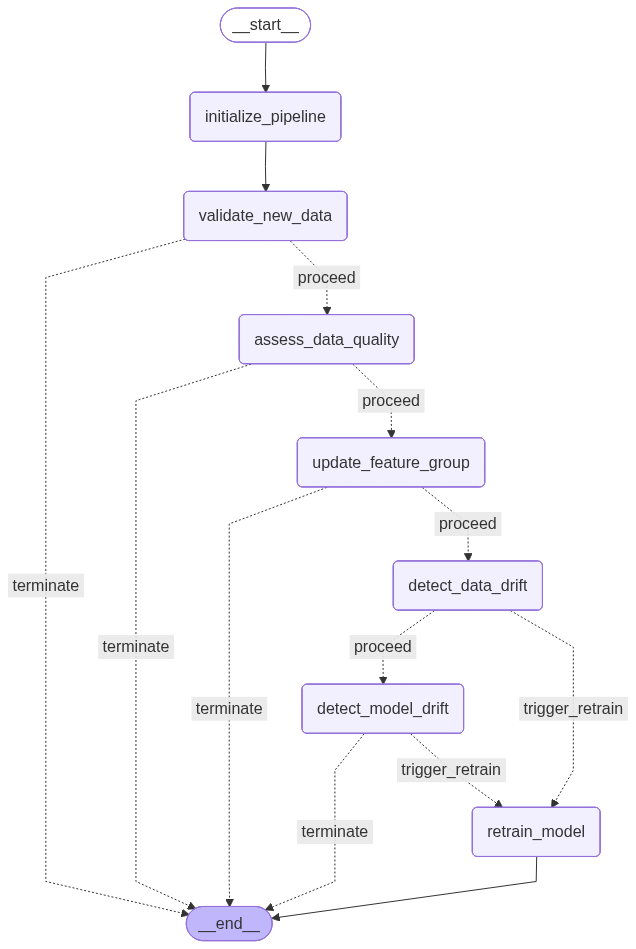
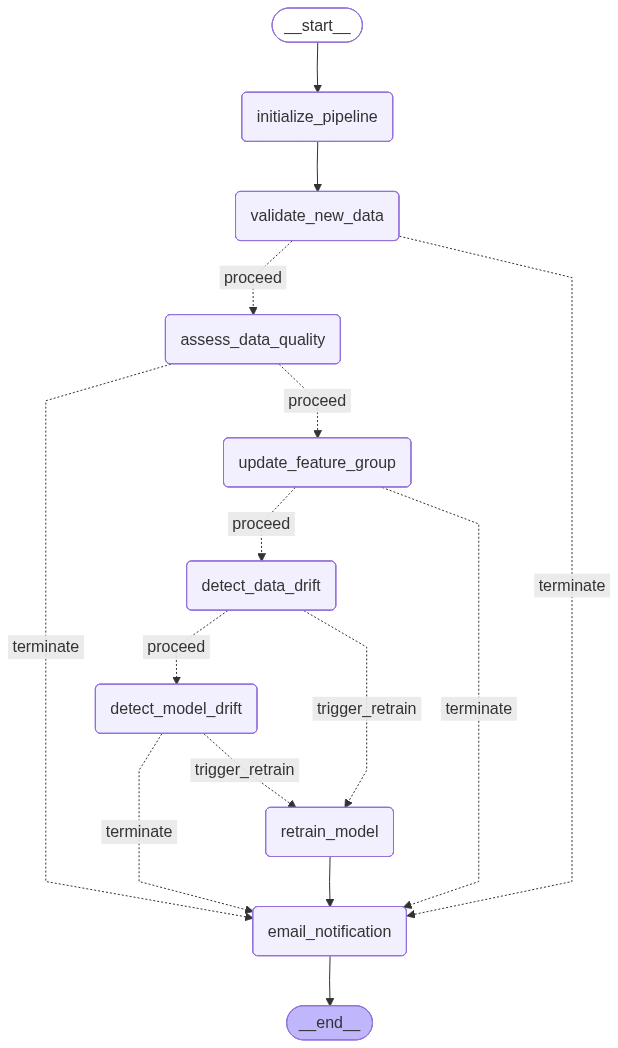
final of final

diff --git a/workflow/build_graph.py b/workflow/build_graph.py
@@ -3,6 +3,7 @@ from workflow.nodes.check_data_quality import check_data_quality, data_quality_r
 from workflow.nodes.update_fs import update_feature_store, is_the_first_day_of_week
 from workflow.nodes.check_data_drift import check_data_drift, data_drift_router
 from workflow.nodes.check_model_drift import check_model_drift, model_drift_router
+from workflow.nodes.send_email import send_email
 from workflow.nodes.retraining import train
 from workflow.nodes.init import init_node
 from langgraph.graph import StateGraph, START, END
@@ -19,24 +20,24 @@ def create_graph():
     builder.add_node('detect_data_drift', check_data_drift)
     builder.add_node('detect_model_drift', check_model_drift)
     builder.add_node('retrain_model', train)
-
+    builder.add_node('email_notification',send_email)
     builder.add_conditional_edges('validate_new_data', 
                                   new_data_router,
                                   {
                                       'proceed': 'assess_data_quality',
-                                      'terminate': END
+                                      'terminate': 'email_notification'
                                   })
     builder.add_conditional_edges('assess_data_quality',
                                   data_quality_router,
                                   {
                                       'proceed': 'update_feature_group',
-                                      'terminate': END
+                                      'terminate': 'email_notification'
                                   })
     builder.add_conditional_edges('update_feature_group',
                                   is_the_first_day_of_week,
                                   {
                                       'proceed': 'detect_data_drift',
-                                      'terminate': END
+                                      'terminate': 'email_notification'
                                   })
     builder.add_conditional_edges('detect_data_drift',
                                   data_drift_router,
@@ -45,21 +46,23 @@ def create_graph():
                                       'trigger_retrain': 'retrain_model'
                                   })
     builder.add_conditional_edges('detect_model_drift',
-                                  data_drift_router,
+                                  model_drift_router,
                                   {
                                       'trigger_retrain': 'retrain_model',
-                                      'terminate': END
+                                      'terminate': 'email_notification'
                                   })
     builder.add_edge(START, 'initialize_pipeline')
     builder.add_edge('initialize_pipeline', 'validate_new_data')
+    builder.add_edge('retrain_model','email_notification')
+    builder.add_edge('email_notification',END)
     return builder.compile()
 
 if __name__ == '__main__':
     graph = create_graph()
-    # mermaid_syntax = graph.get_graph().draw_mermaid()
-    # draw_mermaid_png(mermaid_syntax, output_file_path="my_langgraph_graph.png")
-    config = load_config()
-    graph.invoke({'config': config})
+    mermaid_syntax = graph.get_graph().draw_mermaid()
+    draw_mermaid_png(mermaid_syntax, output_file_path="my_langgraph_graph.png")
+    # config = load_config()
+    # graph.invoke({'config': config})
     
 
 

diff --git a/workflow/nodes/send_email.py b/workflow/nodes/send_email.py
@@ -1,0 +1,5 @@
+from workflow.schema import State
+
+
+def send_email(state: State):
+    pass
